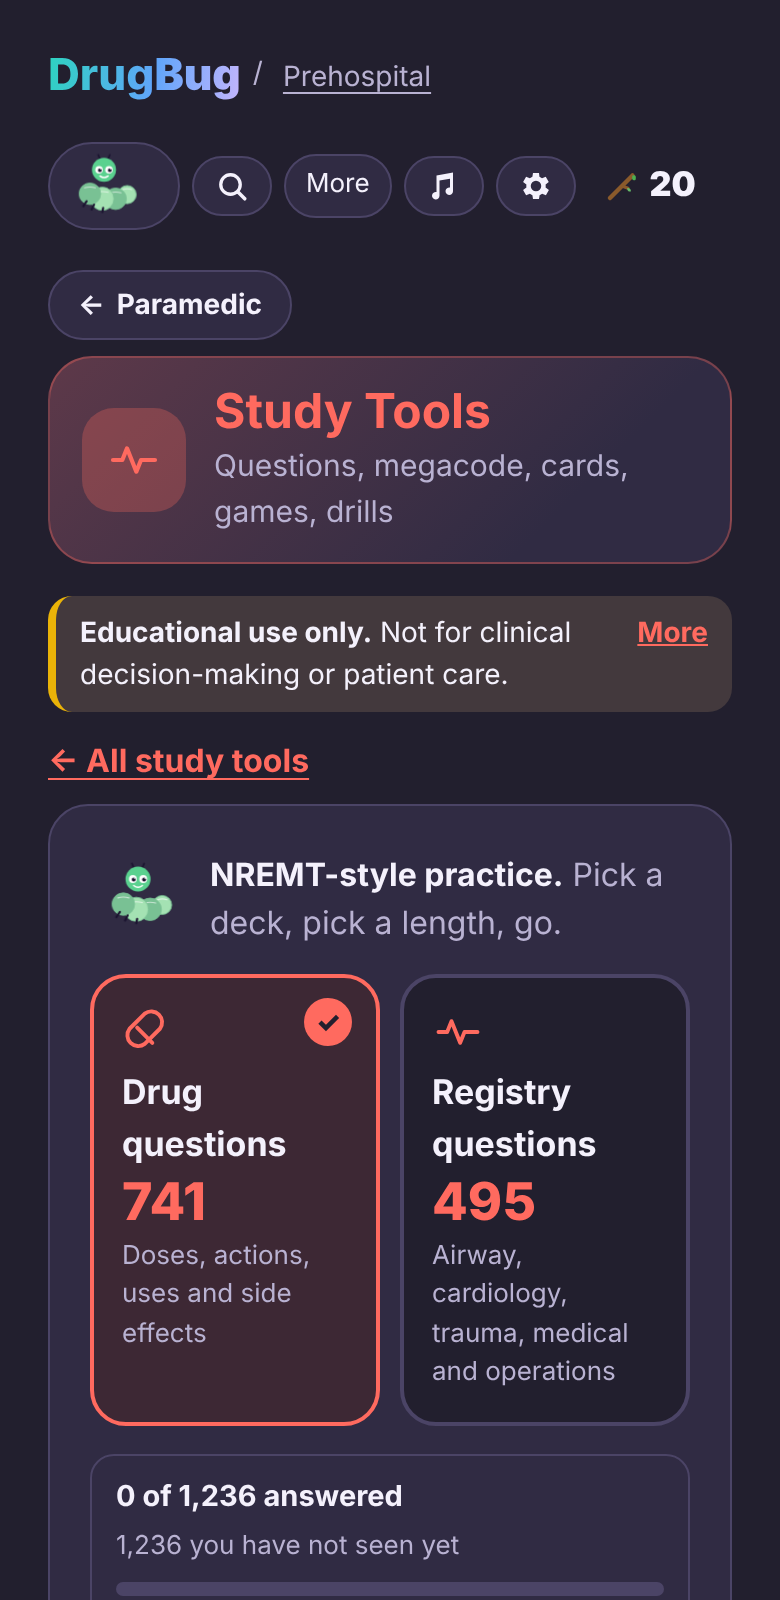
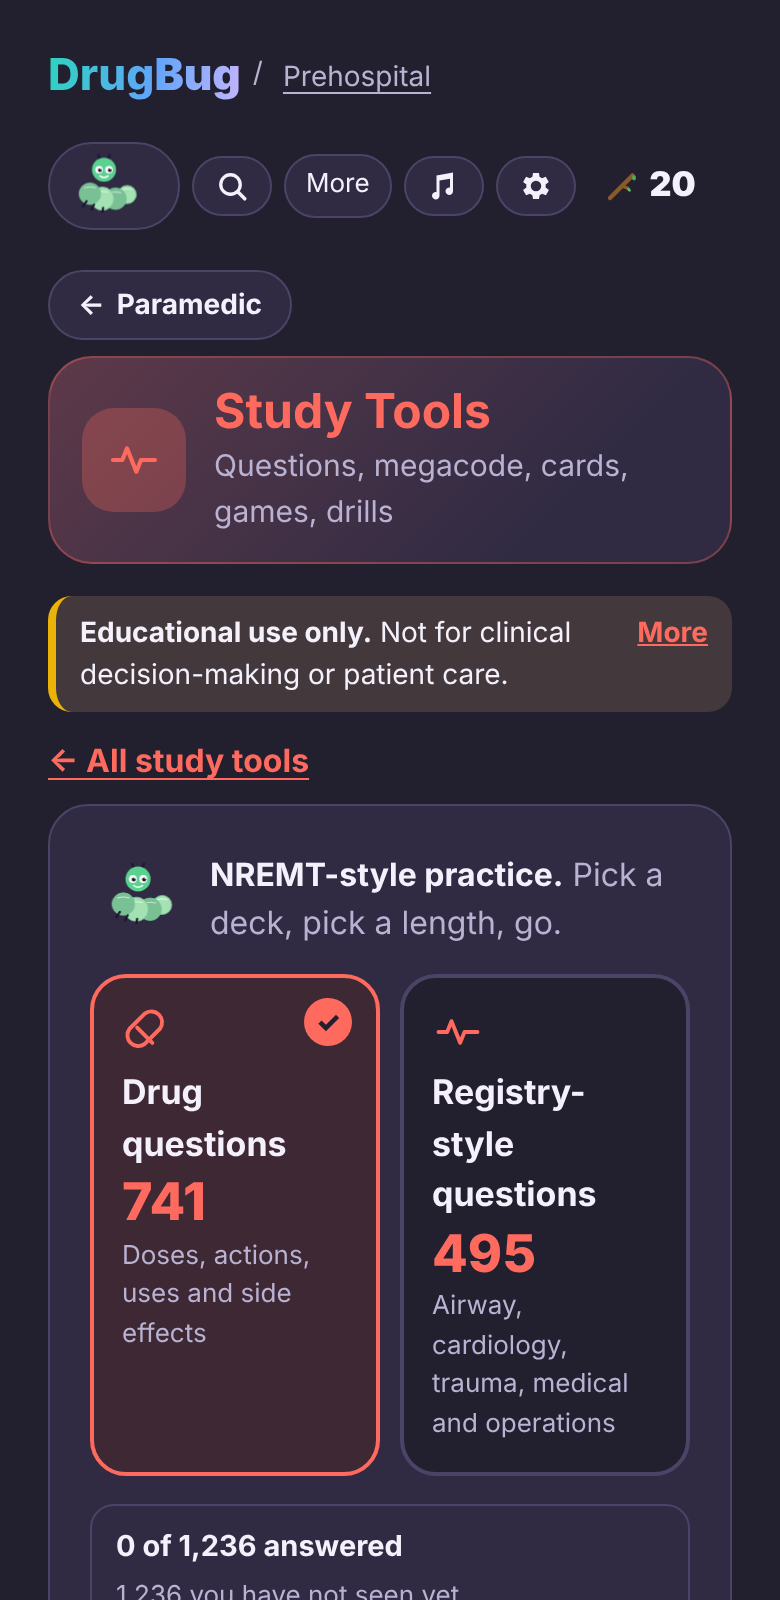
Site: Step-style wording and refreshed screenshots

Changed region(s): [[0.0923, 0.6875, 0.8923, 1.0]]

diff --git a/index.html b/index.html
@@ -55,7 +55,7 @@ details{background:var(--surface);border:1px solid var(--line);border-radius:12p
 
 <section class="shots" aria-label="Screenshots"><figure><img src="shot-routes.png" alt="Pick your route and level" loading="lazy" width="390" height="800"><figcaption>Pick your route and level</figcaption></figure><figure><img src="shot-drug.png" alt="Every drug, in plain language" loading="lazy" width="390" height="800"><figcaption>Every drug, in plain language</figcaption></figure><figure><img src="shot-nursing.png" alt="Your bug grows with your scope" loading="lazy" width="390" height="800"><figcaption>Your bug grows with your scope</figcaption></figure><figure><img src="shot-disease.png" alt="The Disease Lab" loading="lazy" width="390" height="800"><figcaption>The Disease Lab</figcaption></figure><figure><img src="shot-quiz.png" alt="Questions at your star level" loading="lazy" width="390" height="800"><figcaption>Questions at your star level</figcaption></figure></section>
 
-<div class="grid"><div class="card"><h3>BugDex</h3><p>All 2,000+ medications in one place, explained in plain language, with drug families compared side by side and illicit and street drug education.</p></div><div class="card"><h3>Prehospital</h3><p>EMT, AEMT, Paramedic and Flight Paramedic scopes, blood products and hemodynamics.</p></div><div class="card"><h3>Nursing</h3><p>CNA, LVN/LPN, RN and Flight Nurse, with specialty units from ICU and ER to NICU and L&amp;D.</p></div><div class="card"><h3>Medical School</h3><p>Mechanisms to management, with advanced labs for Step 1, Step 2 CK and Step 3 study.</p></div><div class="card"><h3>Imaging</h3><p>X-ray, CT, MRI, nuclear medicine and IR: contrast agents, reactions, eGFR and radiopharmaceuticals.</p></div><div class="card"><h3>Questions at your level</h3><p>Every question carries a one-to-four star difficulty tied to your role, so a CNA is not answering flight questions and a flight nurse is not answering CNA ones. DrugBug tracks the ones you have already done and can serve only the ones you have not seen.</p></div><div class="card"><h3>Exam prep</h3><p>NREMT-style, NCLEX-style, Step-style and Registry-style questions: single answer, select-all and put-in-priority-order questions, Exam mode, weak-spot drills and a test-day countdown with a daily goal.</p></div><div class="card"><h3>My List</h3><p>Save the drugs you are studying and see, in depth, how they interact with each other.</p></div><div class="card"><h3>Compounds and probiotics</h3><p>The interesting compounds in vegetables, fruits and vitamins, on flip cards with a Surprise me button, plus probiotics.</p></div><div class="card"><h3>The Wormhole and the Disease Lab</h3><p>Go down the wormhole on any drug, or step into the Disease Lab on 250 conditions: where it came from and how it works inside you, from the cell to each organ, with the subtypes of each condition broken out.</p></div><div class="card"><h3>Study Tools</h3><p>Questions, Megacode with a live monitor and 24 cases, flashcards, Brain Games, safety drills and the Medication Disease Identifier, which reads a practice medication list back to you.</p></div><div class="card"><h3>3D molecules</h3><p>See the chemical structure of hundreds of drugs, then tap it to spin a 3D model. Turn the hydrogens on or off and zoom in close.</p></div><div class="card"><h3>Grow your bug</h3><p>Earn sticks for every right answer and build your Terrarium of 90+ bugs, faces and gear.</p></div></div>
+<div class="grid"><div class="card"><h3>BugDex</h3><p>All 2,000+ medications in one place, explained in plain language, with drug families compared side by side and illicit and street drug education.</p></div><div class="card"><h3>Prehospital</h3><p>EMT, AEMT, Paramedic and Flight Paramedic scopes, blood products and hemodynamics.</p></div><div class="card"><h3>Nursing</h3><p>CNA, LVN/LPN, RN and Flight Nurse, with specialty units from ICU and ER to NICU and L&amp;D.</p></div><div class="card"><h3>Medical School</h3><p>Mechanisms to management, with advanced labs for Step 1-style, Step 2 CK-style and Step 3-style study.</p></div><div class="card"><h3>Imaging</h3><p>X-ray, CT, MRI, nuclear medicine and IR: contrast agents, reactions, eGFR and radiopharmaceuticals.</p></div><div class="card"><h3>Questions at your level</h3><p>Every question carries a one-to-four star difficulty tied to your role, so a CNA is not answering flight questions and a flight nurse is not answering CNA ones. DrugBug tracks the ones you have already done and can serve only the ones you have not seen.</p></div><div class="card"><h3>Exam prep</h3><p>NREMT-style, NCLEX-style, Step-style and Registry-style questions: single answer, select-all and put-in-priority-order questions, Exam mode, weak-spot drills and a test-day countdown with a daily goal.</p></div><div class="card"><h3>My List</h3><p>Save the drugs you are studying and see, in depth, how they interact with each other.</p></div><div class="card"><h3>Compounds and probiotics</h3><p>The interesting compounds in vegetables, fruits and vitamins, on flip cards with a Surprise me button, plus probiotics.</p></div><div class="card"><h3>The Wormhole and the Disease Lab</h3><p>Go down the wormhole on any drug, or step into the Disease Lab on 250 conditions: where it came from and how it works inside you, from the cell to each organ, with the subtypes of each condition broken out.</p></div><div class="card"><h3>Study Tools</h3><p>Questions, Megacode with a live monitor and 24 cases, flashcards, Brain Games, safety drills and the Medication Disease Identifier, which reads a practice medication list back to you.</p></div><div class="card"><h3>3D molecules</h3><p>See the chemical structure of hundreds of drugs, then tap it to spin a 3D model. Turn the hydrogens on or off and zoom in close.</p></div><div class="card"><h3>Grow your bug</h3><p>Earn sticks for every right answer and build your Terrarium of 90+ bugs, faces and gear.</p></div></div>
 
 <h2>Free, Plus and Pro</h2><div class="price"><div class="card"><h3>Free</h3><strong>$0</strong><ul class="perks"><li>About 40 common medications</li><li>Flashcards for those drugs</li><li>The daily 5-minute DrugBug</li><li>Small Sickness Guide, Normal Vitals &amp; Labs, and Conditions &amp; Medicine Cautions</li><li>A free preview of the Wormhole and the Disease Lab</li><li>The Terrarium: grow your bug</li></ul></div>
 <div class="card"><h3>DrugBug Plus</h3><strong>$4.99/mo</strong><p>Or $39.99/year.</p><ul class="perks"><li>Every medication on every route: BugDex, Prehospital, Nursing, Medical School and Imaging</li><li>Illicit and street drug education in the BugDex</li><li>Probiotics, plus the Vegetable, Fruit and Vitamin Compounds</li><li>My List: save your drugs and see in depth how they interact</li><li>Drug Families, Drug Alternatives, Lab Values, Blood Products, Hemodynamics, Flight Prep, Specialty Units and Contrast Safety</li><li>The Wormhole on every drug and the Disease Lab on 250 conditions</li><li>Flashcards for every drug</li><li>All of Everyday Health</li><li>Rare and seasonal bugs</li></ul></div><div class="card"><h3>DrugBug Pro</h3><strong>$9.99/mo</strong><p>Or $79.99/year. New subscribers can try Pro free for 7 days through the App Store.</p><ul class="perks"><li>Everything in Plus</li><li>Exam prep: NREMT-style, NCLEX-style, Step-style and Registry-style practice tests, including select-all and put-in-order questions, plus Exam mode</li><li>Questions at your star level, with tracking of the ones you have already done</li><li>Megacode: 24 cases with a live monitor</li><li>Brain Games: memory match, crossword, scramble, Class Blitz and more</li><li>Clinical scenarios</li><li>Safety drills and the Medication Disease Identifier</li><li>Nursing Bug skill practice</li><li>Epic and Legendary bugs</li></ul></div></div>
